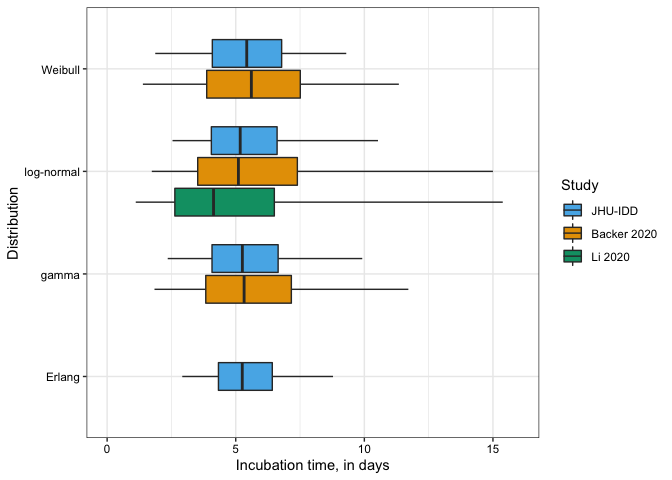
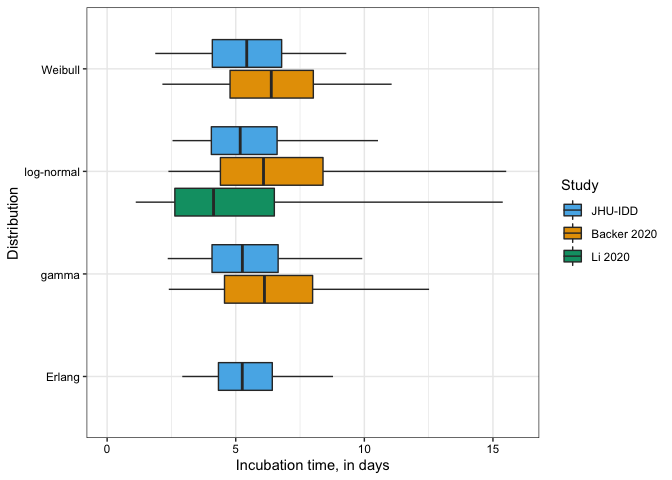
updated Backer parameters and related figures/tables

diff --git a/README.md b/README.md
@@ -3,7 +3,7 @@
 Real-time estimation of the novel coronavirus incubation time
 =============================================================
 
-Updated: Mon Feb 10 14:08:55 2020
+Updated: Mon Feb 10 22:21:35 2020
 
 [Read the medRxiv
 preprint!](https://www.medrxiv.org/content/10.1101/2020.02.02.20020016v1)
@@ -238,7 +238,7 @@ comparison of our incubation periods are shown below:
 
 <img src="README_files/figure-markdown_strict/comparison-1.png" style="display: block; margin: auto;" />
 
-The median estimates from all models lie between 4.14 and 5.61. The
+The median estimates from all models lie between 4.14 and 6.38. The
 lower and upper tails for our distributions are all closer to the median
 than from the other studies, whether this is due to differences in data
 or in estimation methodologies is open for investigation.
@@ -296,23 +296,23 @@ distributions.
 <tr class="odd">
 <td style="text-align: left;">Backer 2020</td>
 <td style="text-align: center;">Weibull</td>
-<td style="text-align: right;">34</td>
-<td style="text-align: right;">2.37</td>
-<td style="text-align: right;">6.54</td>
+<td style="text-align: right;">88</td>
+<td style="text-align: right;">3.04</td>
+<td style="text-align: right;">7.20</td>
 </tr>
 <tr class="even">
 <td style="text-align: left;">Backer 2020</td>
 <td style="text-align: center;">gamma</td>
-<td style="text-align: right;">34</td>
-<td style="text-align: right;">4.96</td>
-<td style="text-align: right;">1.15</td>
+<td style="text-align: right;">88</td>
+<td style="text-align: right;">6.10</td>
+<td style="text-align: right;">1.06</td>
 </tr>
 <tr class="odd">
 <td style="text-align: left;">Backer 2020</td>
 <td style="text-align: center;">log-normal</td>
-<td style="text-align: right;">34</td>
-<td style="text-align: right;">1.63</td>
-<td style="text-align: right;">0.55</td>
+<td style="text-align: right;">88</td>
+<td style="text-align: right;">1.80</td>
+<td style="text-align: right;">0.48</td>
 </tr>
 <tr class="even">
 <td style="text-align: left;">Li 2020</td>
